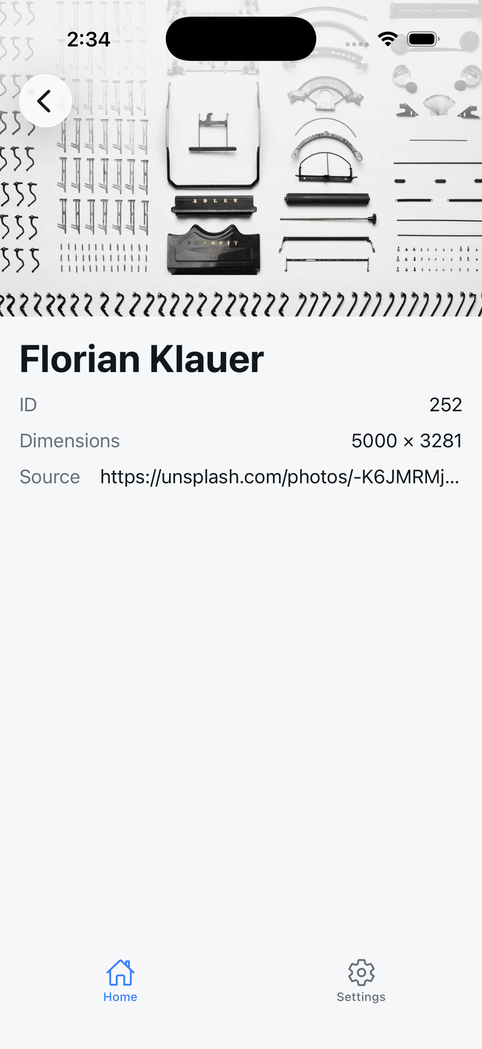
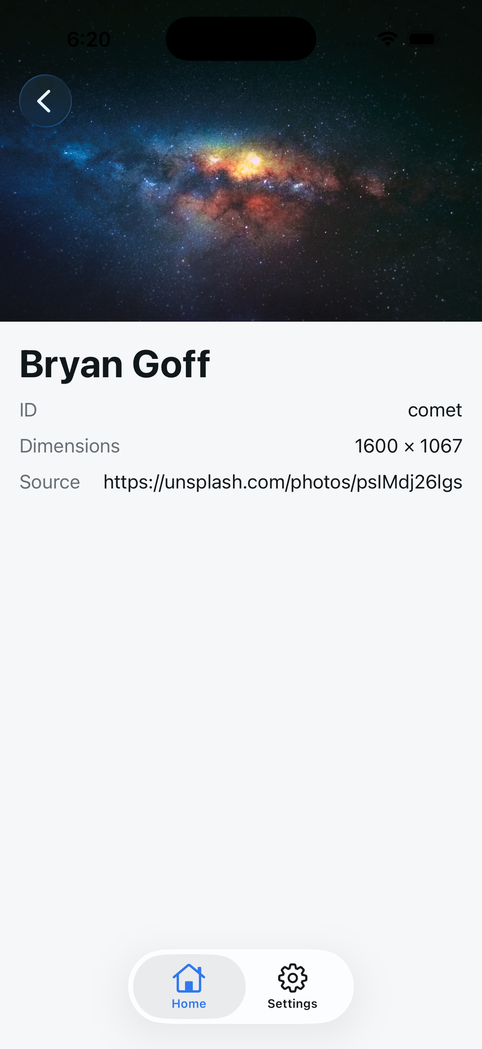
feat: native bottom tabs with iOS 26 Liquid Glass
Swap createBottomTabNavigator for @bottom-tabs/react-navigation, which
renders a real UITabBar. iOS 26 then draws it as Liquid Glass with no
shim of our own, and minimizeBehavior gives the scroll-away bar; older
iOS falls back to the standard translucent bar behind #available gates
in the library, so nothing needs a version branch here.

Tab icons move to SF Symbols since the native bar takes symbol names
rather than React elements. The Ionicons helper stays for the drawer.

Active/inactive tint is left unset: iOS 26 ignores the inactive tint
outright, and the active one only applies via an experimental flag that
bakes labels into images, at the cost of icon sizing, badges and a11y.

Adds the package's Expo config plugin so Android's AppTheme points at
Material 3. Screenshots regenerated from an iOS 26.5 simulator.

diff --git a/src/navigation/root-navigator.tsx b/src/navigation/root-navigator.tsx
@@ -1,8 +1,13 @@
+import { createNativeBottomTabNavigator } from '@bottom-tabs/react-navigation';
 import { Ionicons } from '@expo/vector-icons';
-import { createBottomTabNavigator } from '@react-navigation/bottom-tabs';
 import { createDrawerNavigator } from '@react-navigation/drawer';
-import { getFocusedRouteNameFromRoute, NavigationContainer } from '@react-navigation/native';
+import {
+  getFocusedRouteNameFromRoute,
+  NavigationContainer,
+} from '@react-navigation/native';
 import { StatusBar } from 'expo-status-bar';
+
+import type { SFSymbol } from 'sf-symbols-typescript';
 
 import { HomeStack } from '~/navigation/home-stack';
 import { SettingsScreen } from '~/screens/settings-screen';
@@ -17,7 +22,7 @@ export type RootDrawerParamList = {
   Tabs: undefined;
 };
 
-const Tab = createBottomTabNavigator<TabParamList>();
+const Tab = createNativeBottomTabNavigator<TabParamList>();
 const Drawer = createDrawerNavigator<RootDrawerParamList>();
 
 const icon =
@@ -26,26 +31,29 @@ const icon =
     <Ionicons name={name} color={color} size={size} />
   );
 
+/** The native tab bar takes SF Symbols on iOS and drawables/images on Android. */
+const sfSymbol = (sfSymbol: SFSymbol) => () => ({ sfSymbol });
+
 function Tabs() {
   const { colors } = useTheme();
 
   return (
     <Tab.Navigator
-      screenOptions={{
-        headerShown: false,
-        tabBarActiveTintColor: colors.accent,
-        tabBarInactiveTintColor: colors.textMuted,
-      }}
+      // Renders a real UITabBar, so iOS 26 gives it Liquid Glass for free —
+      // including the scroll-away minimize behaviour. Pre-26 it falls back to
+      // the standard translucent bar.
+      screenOptions={{ tabBarActiveTintColor: colors.accent }}
+      minimizeBehavior='onScrollDown'
     >
       <Tab.Screen
         name='Home'
         component={HomeStack}
-        options={{ tabBarIcon: icon('home-outline') }}
+        options={{ tabBarIcon: sfSymbol('house') }}
       />
       <Tab.Screen
         name='Settings'
         component={SettingsScreen}
-        options={{ tabBarIcon: icon('settings-outline') }}
+        options={{ tabBarIcon: sfSymbol('gearshape') }}
       />
     </Tab.Navigator>
   );

diff --git a/app.config.ts b/app.config.ts
@@ -37,6 +37,9 @@ const config: ExpoConfig = {
   web: {
     favicon: './src/assets/favicon.png',
   },
+  // Points the Android theme at Material 3 so the native tab bar matches the
+  // platform. iOS needs nothing here — UITabBar picks up Liquid Glass on 26+.
+  plugins: [['react-native-bottom-tabs', { theme: 'material3' }]],
 };
 
 export default config;
